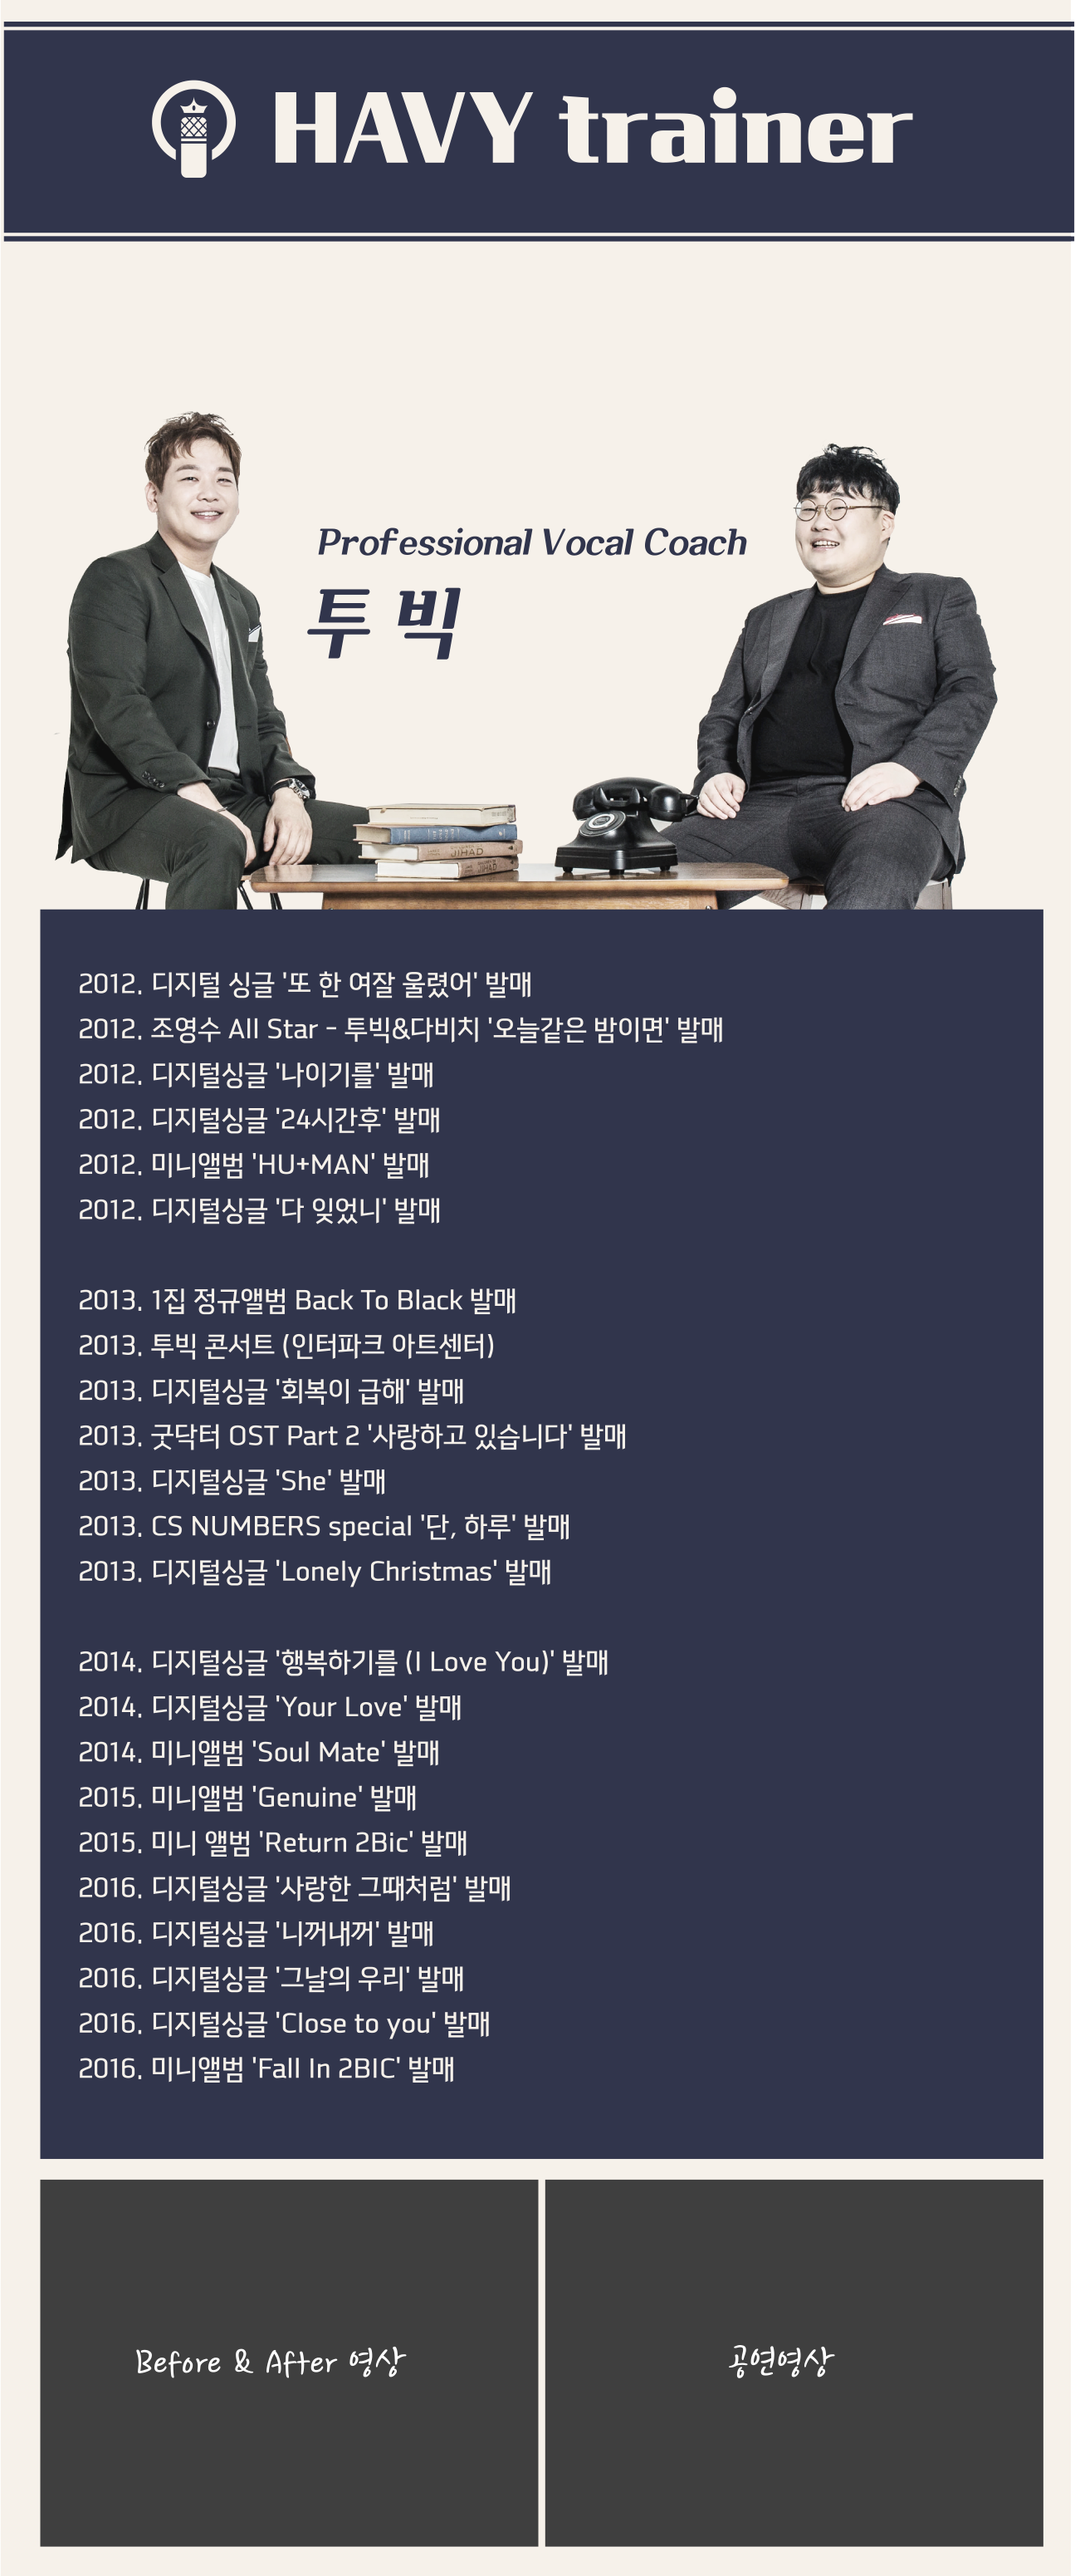
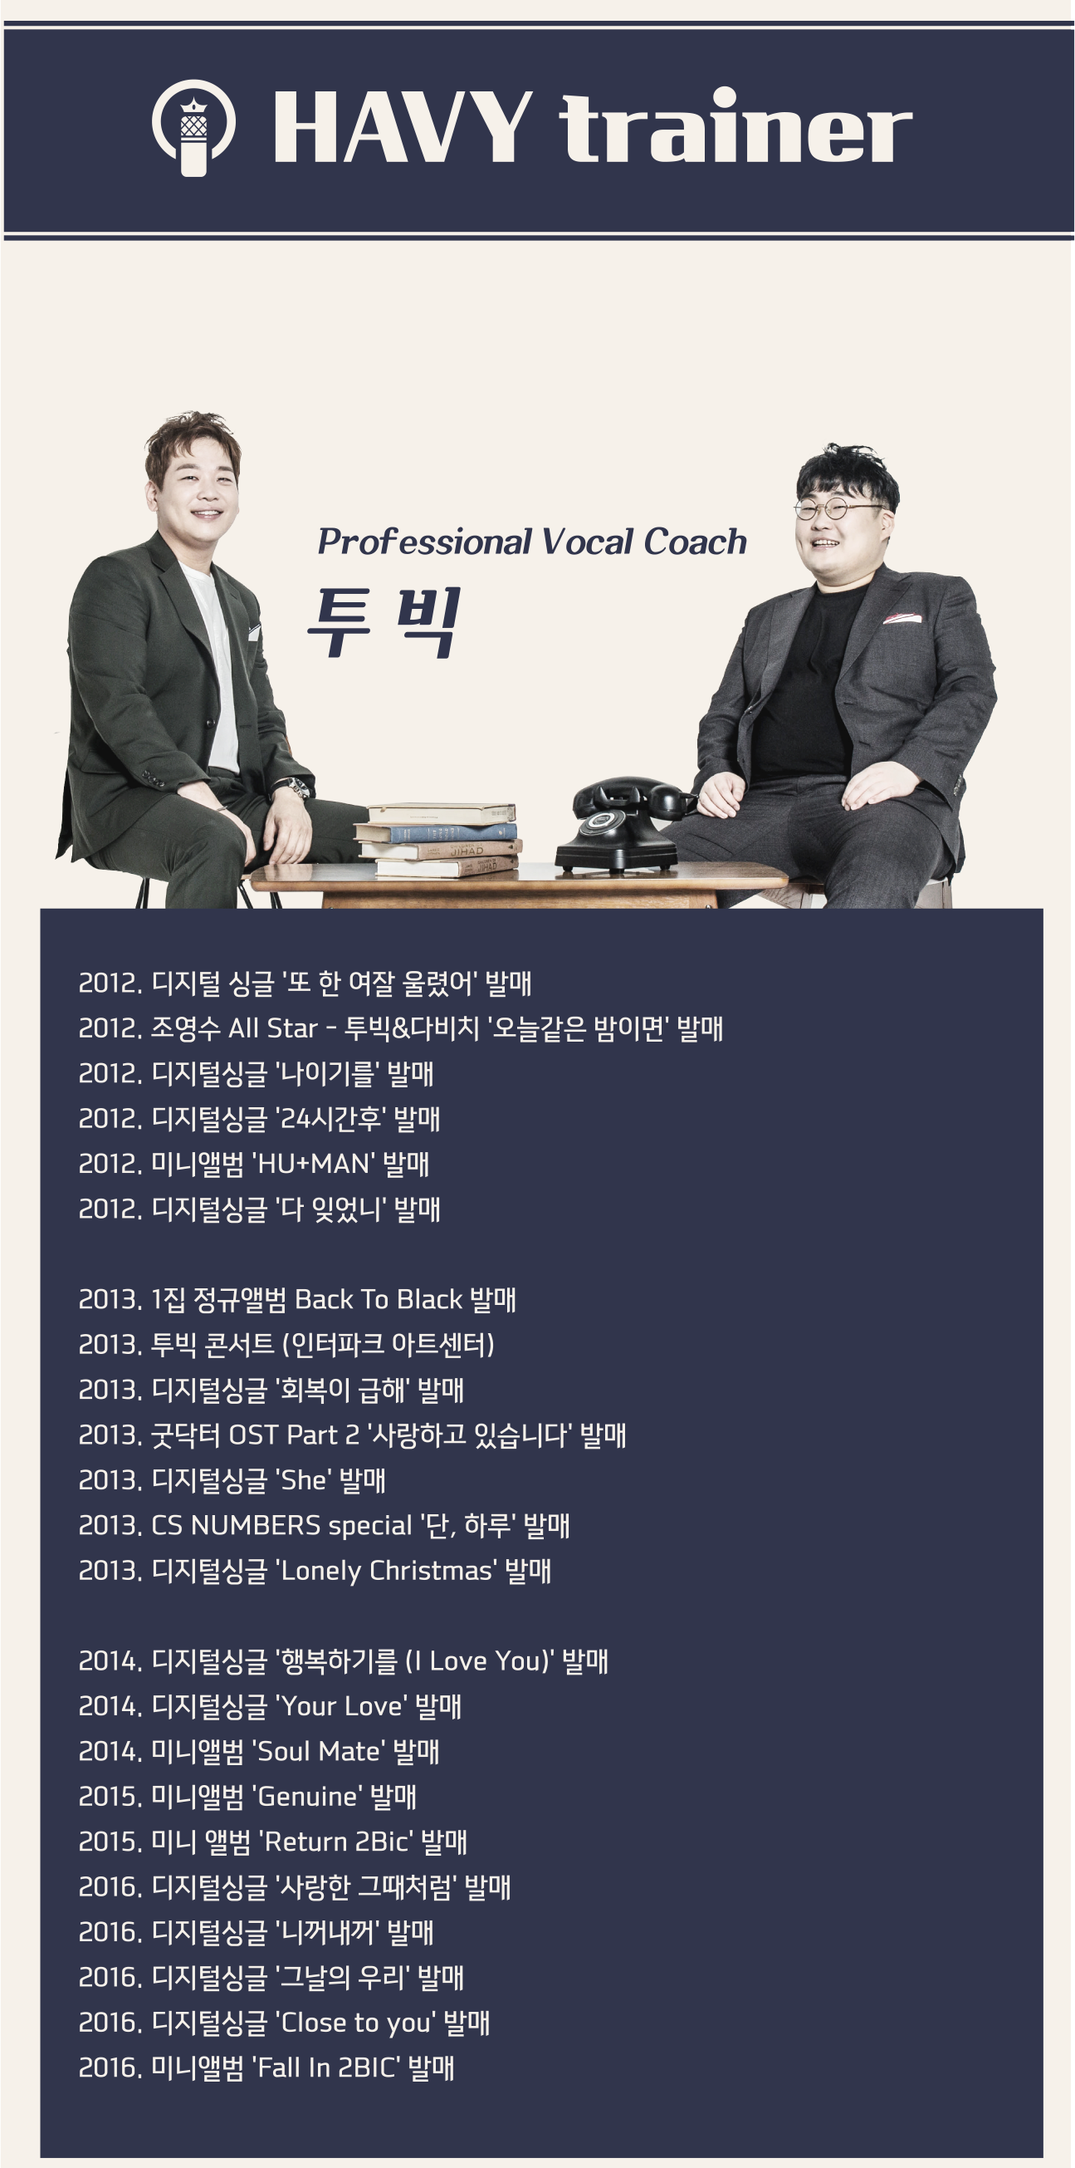
d

diff --git a/content/frame/havy2/html/trainer.html b/content/frame/havy2/html/trainer.html
@@ -1,33 +1,35 @@
 <div style="text-align: center;">
-	<img src="#{path.root}/images/trainer/trainer1.png" style="width: 100%;">
+	<img src="#{path.root}/images/trainer/#{imageType}trainer1.png" style="width: 100%;">
 	<div>
-		<img src="#{path.root}/images/trainer/trainer7.png" style="width: 100%; margin-top: 15px;">
+		<img src="#{path.root}/images/trainer/#{imageType}trainer7.png" style="width: 100%; margin-top: 15px;">
+		<iframe class="youtube" src="https://www.youtube.com/embed/Q_MiW8UJkhE" frameborder="0" allowfullscreen scrolling="no"></iframe>
+		<iframe class="youtube" src="https://www.youtube.com/embed/8Q7acxlHL3c" frameborder="0" allowfullscreen scrolling="no"></iframe>
 	</div>
 	<div>
-		<img src="#{path.root}/images/trainer/trainer6.png" style="width: 100%; margin-top: 15px;">
+		<img src="#{path.root}/images/trainer/#{imageType}trainer6.png" style="width: 100%; margin-top: 15px;">
 	</div>
 	<div>
-		<img src="#{path.root}/images/trainer/trainer5.png" style="width: 100%; margin-top: 15px;">
+		<img src="#{path.root}/images/trainer/#{imageType}trainer5.png" style="width: 100%; margin-top: 15px;">
 		<iframe class="youtube" src="https://www.youtube.com/embed/W1eXYkujYnw" frameborder="0" allowfullscreen scrolling="no"></iframe>
 		<iframe class="youtube" src="https://www.youtube.com/embed/wxArfx6z56Y" frameborder="0" allowfullscreen scrolling="no"></iframe>
 	</div>
 	<div>
-		<img src="#{path.root}/images/trainer/trainer4.png" style="width: 100%; margin-top: 15px;">
+		<img src="#{path.root}/images/trainer/#{imageType}trainer4.png" style="width: 100%; margin-top: 15px;">
 		<iframe class="youtube" src="https://www.youtube.com/embed/SDQKBsWpl6Q" frameborder="0" allowfullscreen scrolling="no"></iframe>
 		<iframe class="youtube" src="https://www.youtube.com/embed/95cRYEI66sY" frameborder="0" allowfullscreen scrolling="no"></iframe>
 	</div>
 	<div>
-		<img src="#{path.root}/images/trainer/trainer3.png" style="width: 100%; margin-top: 15px;">
+		<img src="#{path.root}/images/trainer/#{imageType}trainer3.png" style="width: 100%; margin-top: 15px;">
 		<iframe class="youtube" src="https://www.youtube.com/embed/R-nH2WNEYFU?list=PLSE-wISqVYNPl4ZQM0bm0nMr_L6nybJej" frameborder="0" allowfullscreen scrolling="no"></iframe>
 		<iframe class="youtube" src="https://www.youtube.com/embed/ZhnU3rjNXxg?list=PLSE-wISqVYNPl4ZQM0bm0nMr_L6nybJej" frameborder="0" allowfullscreen scrolling="no"></iframe>
 	</div>
 	<div>
-		<img src="#{path.root}/images/trainer/trainer8.png" style="width: 100%; margin-top: 15px;">
+		<img src="#{path.root}/images/trainer/#{imageType}trainer8.png" style="width: 100%; margin-top: 15px;">
 		<iframe class="youtube" src="https://www.youtube.com/embed/IVRArBAOOc4" frameborder="0" allowfullscreen scrolling="no"></iframe>
 		<iframe class="youtube" src="https://www.youtube.com/embed/h2mECWJxx34" frameborder="0" allowfullscreen scrolling="no"></iframe>
 	</div>
 	<div>
-		<img src="#{path.root}/images/trainer/trainer2.png" style="width: 100%; margin-top: 15px;">
+		<img src="#{path.root}/images/trainer/#{imageType}trainer2.png" style="width: 100%; margin-top: 15px;">
 		<iframe class="youtube" src="https://www.youtube.com/embed/QnWe8VHYUHA" frameborder="0" allowfullscreen scrolling="no"></iframe>
 		<iframe class="youtube" src="https://www.youtube.com/embed/CJUbS2ZPNjw" frameborder="0" allowfullscreen scrolling="no"></iframe>
 	</div>

diff --git a/content/frame/havy2/html/havy.html b/content/frame/havy2/html/havy.html
@@ -117,7 +117,7 @@ $(document).ready(function()
 		<div class="title">
 			<a href="?body=havy"><img src="#{path.root}/images/title.png" style="width: 100%;" /></a>
 		</div>
-		<div class="menu">
+		<div class="menu" style="text-align: center;">
 			<a href="?body=havy&subbody=class"><img src="#{path.root}/images/menu/class1.png" style="width: 20%;"/></a>
 			<a href="?body=havy&subbody=trainer"><img src="#{path.root}/images/menu/trainer1.png" style="width: 20%;"/></a>
 			<a href="?body=havy&subbody=before"><img src="#{path.root}/images/menu/before1.png" style="width: 20%;"/></a>
@@ -129,27 +129,27 @@ $(document).ready(function()
 		<div data-fragment="subbody" style="height: 100%;">
 			<div id="slideCotnents" class="owl-carousel">
 				<div>
-					<img src="#{path.root}/images/main/main1-1.png"/>
+					<img src="#{path.root}/images/main/#{imageType}main1-1.png"/>
 					<div style="text-align: center;">
-						<a href="#"><img src="#{path.root}/images/main/main1-2.png" style="width: 200px;"/></a>
+						<a href="#"><img src="#{path.root}/images/main/#{imageType}main1-2.png" style="width: 200px;"/></a>
 					</div>
-					<img src="#{path.root}/images/main/main1-3.png"/>
+					<img src="#{path.root}/images/main/#{imageType}main1-3.png"/>
 				</div>
 				<div>
-					<img src="#{path.root}/images/main/main2-1.png"/>
-					<a href="#"><img src="#{path.root}/images/main/main2-2.png"/></a>
-					<img src="#{path.root}/images/main/main2-3.png"/>
+					<img src="#{path.root}/images/main/#{imageType}main2-1.png"/>
+					<a href="#"><img src="#{path.root}/images/main/#{imageType}main2-2.png"/></a>
+					<img src="#{path.root}/images/main/#{imageType}main2-3.png"/>
 				</div>
 				<div>
-					<img src="#{path.root}/images/main/main3-1.png"/>
-					<a href="#"><img src="#{path.root}/images/main/main3-2.png"/></a>
-					<img src="#{path.root}/images/main/main3-3.png"/>
-					<img src="#{path.root}/images/main/main3-4.png"/>
+					<img src="#{path.root}/images/main/#{imageType}main3-1.png"/>
+					<a href="#"><img src="#{path.root}/images/main/#{imageType}main3-2.png"/></a>
+					<img src="#{path.root}/images/main/#{imageType}main3-3.png"/>
+					<img src="#{path.root}/images/main/#{imageType}main3-4.png"/>
 				</div>
 				<div>
-					<img src="#{path.root}/images/main/main4-1.png"/>
-					<a href="#" target="_blank"><img src="#{path.root}/images/main/main4-2.png"/></a>
-					<img src="#{path.root}/images/main/main4-3.png"/>
+					<img src="#{path.root}/images/main/#{imageType}main4-1.png"/>
+					<a href="#" target="_blank"><img src="#{path.root}/images/main/#{imageType}main4-2.png"/></a>
+					<img src="#{path.root}/images/main/#{imageType}main4-3.png"/>
 				</div>
 			</div>
 		</div>

diff --git a/content/frame/havy2/html/class.html b/content/frame/havy2/html/class.html
@@ -42,15 +42,15 @@ $(document).ready(function()
 	</div>
 	<div class="class-content">
 		<div id="class0">
-			<img src="#{path.root}/images/class/class0-1.png" style="width: 100%; marin-top: -5px;">
+			<img src="#{path.root}/images/class/#{imageType}class0-1.png" style="width: 100%; marin-top: -5px;">
 			<iframe class="youtube" src="https://www.youtube.com/embed/WqJ4_aUtGws?list=PLSE-wISqVYNOAUasATBC7Xpx4mcPiRB1U" frameborder="0" allowfullscreen scrolling="no"></iframe>
-			<img src="#{path.root}/images/class/class0-2.png" style="width: 100%; marin-top: -5px;">
-			<img src="#{path.root}/images/class/class0-3.png" style="width: 100%; marin-top: -5px;">
-			<img src="#{path.root}/images/class/class0-4.png" style="width: 100%; marin-top: -5px;">
+			<img src="#{path.root}/images/class/#{imageType}class0-2.png" style="width: 100%; marin-top: -5px;">
+			<img src="#{path.root}/images/class/#{imageType}class0-3.png" style="width: 100%; marin-top: -5px;">
+			<img src="#{path.root}/images/class/#{imageType}class0-4.png" style="width: 100%; marin-top: -5px;">
 		</div>
-		<img src="#{path.root}/images/class/class1.png" class="1" style="width: 100%; marin-top: -5px; display: none;">
-		<img src="#{path.root}/images/class/class2.png" class="2" style="width: 100%; marin-top: -5px; display: none;">
-		<img src="#{path.root}/images/class/class3.png" class="3" style="width: 100%; marin-top: -5px; display: none;">
-		<img src="#{path.root}/images/class/class4.png" class="4" style="width: 100%; marin-top: -5px; display: none;">
+		<img src="#{path.root}/images/class/#{imageType}class1.png" class="1" style="width: 100%; marin-top: -5px; display: none;">
+		<img src="#{path.root}/images/class/#{imageType}class2.png" class="2" style="width: 100%; marin-top: -5px; display: none;">
+		<img src="#{path.root}/images/class/#{imageType}class3.png" class="3" style="width: 100%; marin-top: -5px; display: none;">
+		<img src="#{path.root}/images/class/#{imageType}class4.png" class="4" style="width: 100%; marin-top: -5px; display: none;">
 	</div>
 </div>

diff --git a/content/frame/havy2/html/tv.html b/content/frame/havy2/html/tv.html
@@ -1,30 +1,33 @@
-<div>
-	<img src="#{path.root}/images/tv/tv1.png" style="width: 100%;">
-</div>
-<div>
-	<img src="#{path.root}/images/tv/tv_temp.png" style="width: 100%;">
-</div>
-<div>
-	<img src="#{path.root}/images/tv/tv2.png" style="width: 100%;">
-</div>
-<div>
-	<img src="#{path.root}/images/tv/tv_temp.png" style="width: 100%;">
-</div>
-<div>
-	<img src="#{path.root}/images/tv/tv3.png" style="width: 100%;">
-</div>
-<div>
-	<img src="#{path.root}/images/tv/tv_temp.png" style="width: 100%;">
-</div>
-<div>
-	<img src="#{path.root}/images/tv/tv4.png" style="width: 100%;">
-</div>
-<div>
-	<img src="#{path.root}/images/tv/tv_temp.png" style="width: 100%;">
-</div>
-<div>
-	<img src="#{path.root}/images/tv/tv5.png" style="width: 100%;">
-</div>
-<div>
-	<img src="#{path.root}/images/tv/tv_temp.png" style="width: 100%;">
+<!-- <div> -->
+<!-- 	<img src="#{path.root}/images/tv/tv1.png" style="width: 100%;"> -->
+<!-- </div> -->
+<!-- <div> -->
+<!-- 	<img src="#{path.root}/images/tv/tv_temp.png" style="width: 100%;"> -->
+<!-- </div> -->
+<!-- <div> -->
+<!-- 	<img src="#{path.root}/images/tv/tv2.png" style="width: 100%;"> -->
+<!-- </div> -->
+<!-- <div> -->
+<!-- 	<img src="#{path.root}/images/tv/tv_temp.png" style="width: 100%;"> -->
+<!-- </div> -->
+<!-- <div> -->
+<!-- 	<img src="#{path.root}/images/tv/tv3.png" style="width: 100%;"> -->
+<!-- </div> -->
+<!-- <div> -->
+<!-- 	<img src="#{path.root}/images/tv/tv_temp.png" style="width: 100%;"> -->
+<!-- </div> -->
+<!-- <div> -->
+<!-- 	<img src="#{path.root}/images/tv/tv4.png" style="width: 100%;"> -->
+<!-- </div> -->
+<!-- <div> -->
+<!-- 	<img src="#{path.root}/images/tv/tv_temp.png" style="width: 100%;"> -->
+<!-- </div> -->
+<!-- <div> -->
+<!-- 	<img src="#{path.root}/images/tv/tv5.png" style="width: 100%;"> -->
+<!-- </div> -->
+<!-- <div> -->
+<!-- 	<img src="#{path.root}/images/tv/tv_temp.png" style="width: 100%;"> -->
+<!-- </div> -->
+<div style="text-align: center;">
+자료화면 준비중 입니다.
 </div>

diff --git a/content/frame/havy2/html/before.html b/content/frame/havy2/html/before.html
@@ -13,7 +13,7 @@
 }
 </style>
 <div class="before">
-	<img src="#{path.root}/images/before/before1.png" style="width: 100%;">
+	<img src="#{path.root}/images/before/#{imageType}before1.png" style="width: 100%;">
 	<iframe class="youtube" src="https://www.youtube.com/embed/WqJ4_aUtGws?list=PLSE-wISqVYNOAUasATBC7Xpx4mcPiRB1U" frameborder="0" allowfullscreen scrolling="no"></iframe>
 	<div class="line"></div>
 	<iframe class="youtube" src="https://www.youtube.com/embed/XqfIbZBZ3Xw" frameborder="0" allowfullscreen scrolling="no"></iframe>

diff --git a/src/router/MainRouter.js b/src/router/MainRouter.js
@@ -172,6 +172,16 @@ function replaceData(html, req, frame)
 					}
 				}
 			}
+			
+			var ua = req.headers['user-agent'];
+//			if (/mobile/i.test(ua))
+//			{
+				html = html.replace(/#{imageType}/gi, 'small-');
+//			}
+//			else
+//			{
+//				html = html.replace(/#{imageType}/gi, '');
+//			}
 
 			matchs = html.match(/[^]?#{locale}/gi);
 			if(matchs)
